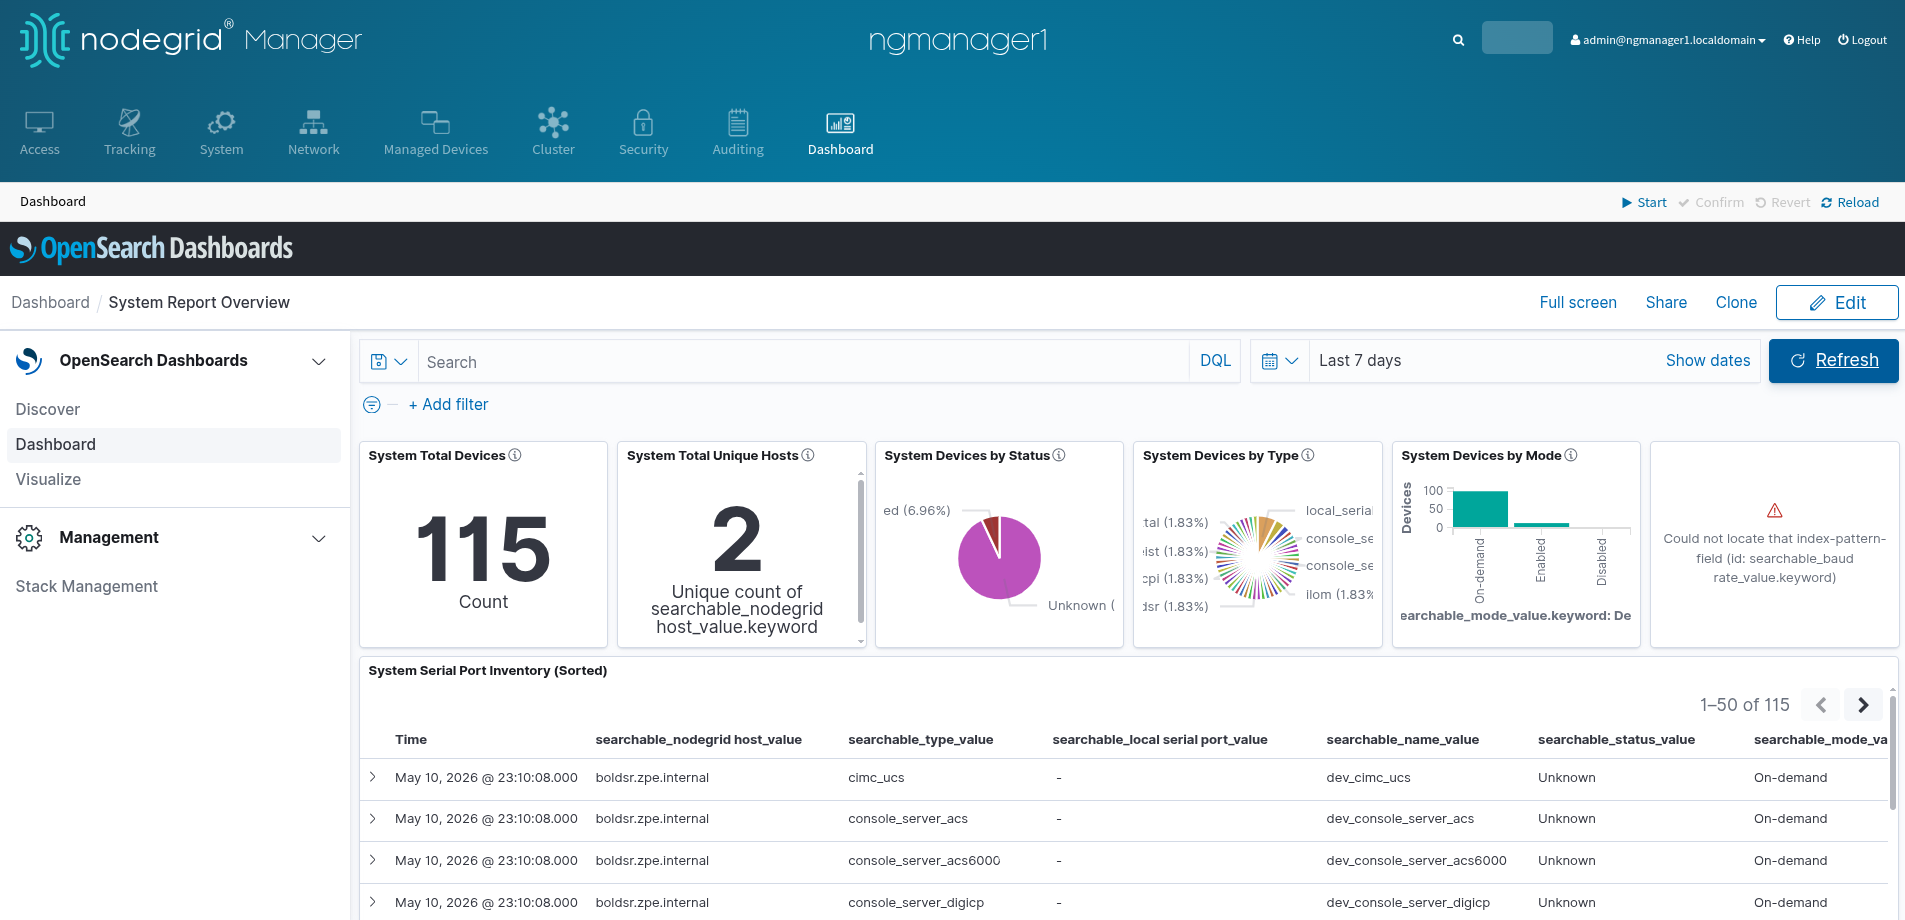
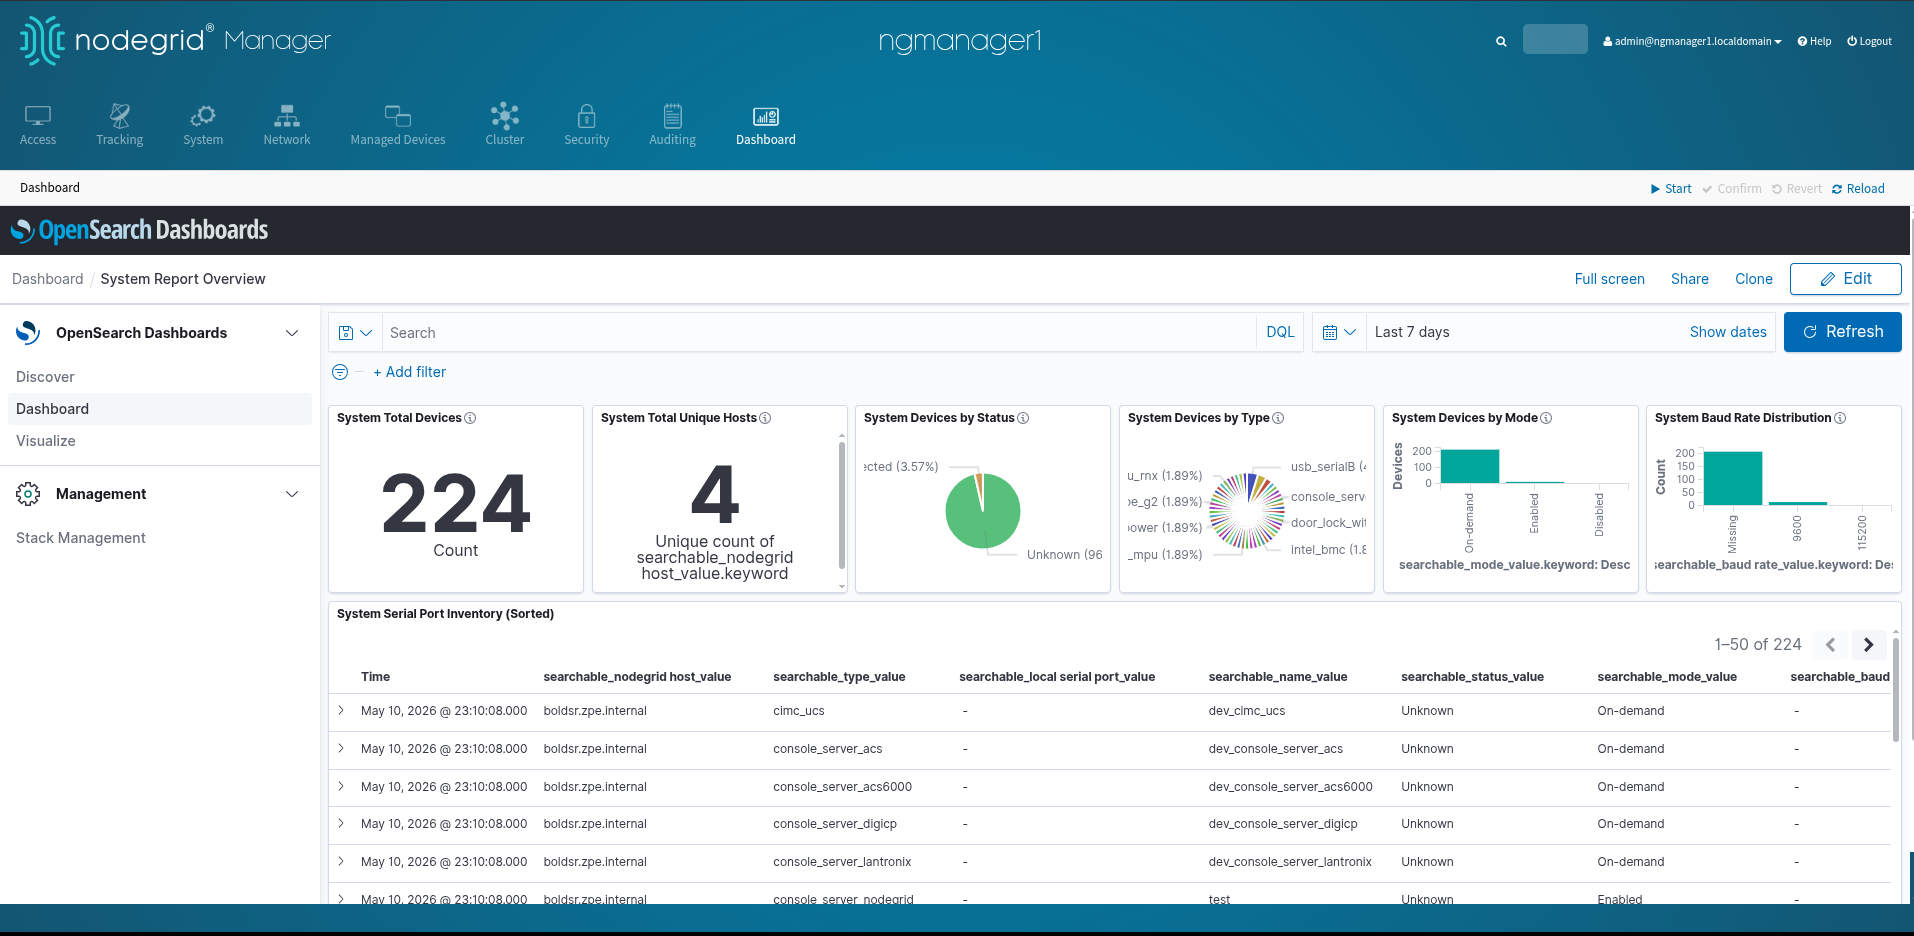
nodegrid_elasticsearch_inventory: - Automate the Kibana Dashboard import and include it in the 'nodegrid_elasticsearch_inventory' role. - Update Readme with an example description and diagram.

diff --git a/examples/playbooks/system-roles/Managed_Devices_report/README.md b/examples/playbooks/system-roles/Managed_Devices_report/README.md
@@ -10,35 +10,60 @@ This use case collects managed-devices inventory from local Nodegrid OpenSearch 
 - Client certificate/key files present on the reports host for report-policy validation tasks
 
 # Example 
-The following example considers two Nodegrid devices, each one manages multiple target devices. The device `ngmanager1` is defined with the `reports` role.
+The following example considers two Nodegrid devices, each one manages multiple target devices. The device `ngmanager1` is defined with the `reports` role in the Ansible inventory.
 
 ```mermaid
 ---
-title: Setup Overview
+title: Managed Devices Report example overview
 ---
-flowchart
- id1["ngmanager1 - Report role"]
- id2["managed Devices"]
- id3["boldsr"]
- id4["managed Devices"]
+graph TB
+  subgraph Rack3
+   direction TB
+   ng-gatesr["gatesr"]
+   subgraph mdgatesr["gatesr managed devices"]
+    direction TB
+     mdgatesr1["router-3-1"]
+     mdgatesr2["router-3-2"]
+     mdgatesr3["switch-3-1"]
+   end
+   ng-gatesr ---|ttyS1-1| mdgatesr1 
+   ng-gatesr ---|usbS0-1| mdgatesr2 
+   ng-gatesr ---|IP| mdgatesr3
+  end
 
- subgraph Nodegrid1
+  subgraph Rack2
+   direction TB
+   ng-boldsr["boldsr"]
+   subgraph mdboldsr["boldsr managed devices"]
+    direction TB
+     mdboldsr1["router-2-1"]
+     mdboldsr2["router-2-2"]
+     mdboldsr3["switch-2-1"]
+   end
+   ng-boldsr ---|ttyS1-1| mdboldsr1 
+   ng-boldsr ---|usbS0-1| mdboldsr2 
+   ng-boldsr ---|IP| mdboldsr3
+  end
+
+subgraph Control_Node["Ansible Control Node"]
  direction LR
- id1 --- id2
- end
+   ng-manager["ng-manager"]
+   subgraph mdmanager["ngmanager managed devices"]
+    direction TB
+     mdmanager1["router-1-1"]
+     mdmanager2["router-1-2"]
+     mdmanager3["switch-1-1"]
+   end
+   ng-manager ---|IP| mdmanager1 & mdmanager2 & mdmanager3
+end
   
- subgraph Nodegrid2
- direction LR
- id3 --- id4
- end
-
-id1 -.-|IPv4 Network| id3
+ng-manager -..-|IPv4/IPv6 \n SSH| ng-boldsr & ng-gatesr
 ```
 
 ## Inventory
 
-### `ngmanager1.yaml`
-Create the file `/etc/ansible/inventories/host_vars/ngmanager1.yaml` with the following content (adapt it accordingly): 
+### `ngmanager.yaml`
+Create the file `/etc/ansible/inventories/host_vars/ngmanager.yaml` with the following content (adapt it accordingly): 
 
 ```yaml
 ansible_host: 192.168.1.21
@@ -58,6 +83,17 @@ ansible_port: '22'
 ansible_user: ansible
 ansible_ssh_private_key_file: ~/.ssh/managed@zpesystems.com
 ```
+
+### `gatesr.yaml`
+Create the file `/etc/ansible/inventories/host_vars/gatesr.yaml` with the following content (adapt it accordingly): 
+
+```yaml
+ansible_host: 192.168.1.23
+ansible_port: '22'
+ansible_user: ansible
+ansible_ssh_private_key_file: ~/.ssh/managed@zpesystems.com
+```
+
 ### Hosts `md_report.yaml`
 Create the file `/etc/ansible/inventories/md_report.yaml` with the following content: 
 
@@ -66,6 +102,7 @@ md_report:
   hosts:
     ngmanager1:
     boldsr:
+    gatesr:
 ```
 
 Test the inventory:
@@ -75,10 +112,12 @@ ansible@ngmanager1:~$ ansible-inventory --graph md_report
 @md_report:
   |--ngmanager1
   |--boldsr
+  |--gatesr
 
 ```
 
-## Playbook
+## Managed Devices Report Playbook
+Create the file `/etc/ansible/playbooks/md_report.yaml` with the following content:
 
 ```yaml
 - name: Build the central Nodegrid device report
@@ -98,16 +137,157 @@ To execute the playbook:
 ```bash
 ansible-playbook md_report.yaml --limit md_report
 ```
+<details>
+    <summary> Playbook execution output example </summary>
 
-## Dashboard Import
+```
+ansible@ngmanager1:/etc/ansible/playbooks/Managed_Devices_report$ ansible-playbook report.yaml --limit ngmanager1
+
+PLAY [Build the central Nodegrid device report] *******************************************************************************
+
+TASK [Nodegrid elastic search inventory] **************************************************************************************
+included: nodegrid_elasticsearch_inventory for ngmanager1
+
+TASK [zpe.nodegrid.nodegrid_elasticsearch_inventory : Include variable definitions] *******************************************
+ok: [ngmanager1]
+
+TASK [zpe.nodegrid.nodegrid_elasticsearch_inventory : Build list of central report host candidates] ***************************
+skipping: [ngmanager1] => (item=dev_cimc_ucs)
+skipping: [ngmanager1] => (item=dev_console_server_acs)
+skipping: [ngmanager1] => (item=dev_console_server_acs6000)
+ok: [ngmanager1 -> localhost(127.0.0.1)] => (item=ngmanager1)
+
+TASK [zpe.nodegrid.nodegrid_elasticsearch_inventory : Ensure exactly one reports host is defined] *****************************
+ok: [ngmanager1 -> localhost(127.0.0.1)] => {
+    "changed": false,
+    "msg": "Using central reports host: ngmanager1"
+}
+
+TASK [zpe.nodegrid.nodegrid_elasticsearch_inventory : Set central reports host fact for this execution host] ******************
+ok: [ngmanager1]
+
+TASK [zpe.nodegrid.nodegrid_elasticsearch_inventory : Collect Nodegrid facts] *************************************************
+ok: [ngmanager1]
+
+TASK [zpe.nodegrid.nodegrid_elasticsearch_inventory : Set Nodegrid version and model facts] ***********************************
+ok: [ngmanager1]
+
+TASK [zpe.nodegrid.nodegrid_elasticsearch_inventory : Audit - Inventory collection started] ***********************************
+included: /etc/ansible/collections/ansible_collections/zpe/nodegrid/roles/nodegrid_elasticsearch_inventory/tasks/audit.yml for ngmanager1
+
+TASK [zpe.nodegrid.nodegrid_elasticsearch_inventory : Set audit log directory] ************************************************
+ok: [ngmanager1]
+
+TASK [zpe.nodegrid.nodegrid_elasticsearch_inventory : Create primary audit log directory] *************************************
+ok: [ngmanager1]
+
+TASK [zpe.nodegrid.nodegrid_elasticsearch_inventory : Build audit timestamp] **************************************************
+ok: [ngmanager1]
+
+TASK [zpe.nodegrid.nodegrid_elasticsearch_inventory : Create audit entry] *****************************************************
+ok: [ngmanager1]
+
+TASK [zpe.nodegrid.nodegrid_elasticsearch_inventory : Write audit log] ********************************************************
+changed: [ngmanager1]
+
+TASK [zpe.nodegrid.nodegrid_elasticsearch_inventory : Collect inventory from Elasticsearch] ***********************************
+ok: [ngmanager1]
+
+TASK [zpe.nodegrid.nodegrid_elasticsearch_inventory : Audit - Inventory collection completed] *********************************
+included: /etc/ansible/collections/ansible_collections/zpe/nodegrid/roles/nodegrid_elasticsearch_inventory/tasks/audit.yml for ngmanager1
+
+TASK [zpe.nodegrid.nodegrid_elasticsearch_inventory : Set audit log directory] ************************************************
+ok: [ngmanager1]
+
+TASK [zpe.nodegrid.nodegrid_elasticsearch_inventory : Create primary audit log directory] *************************************
+ok: [ngmanager1]
+
+TASK [zpe.nodegrid.nodegrid_elasticsearch_inventory : Build audit timestamp] **************************************************
+ok: [ngmanager1]
+
+TASK [zpe.nodegrid.nodegrid_elasticsearch_inventory : Create audit entry] *****************************************************
+ok: [ngmanager1]
+
+TASK [zpe.nodegrid.nodegrid_elasticsearch_inventory : Write audit log] ********************************************************
+changed: [ngmanager1]
+
+TASK [zpe.nodegrid.nodegrid_elasticsearch_inventory : Audit - Report load started] ********************************************
+included: /etc/ansible/collections/ansible_collections/zpe/nodegrid/roles/nodegrid_elasticsearch_inventory/tasks/audit.yml for ngmanager1
+
+TASK [zpe.nodegrid.nodegrid_elasticsearch_inventory : Set audit log directory] ************************************************
+ok: [ngmanager1]
+
+TASK [zpe.nodegrid.nodegrid_elasticsearch_inventory : Create primary audit log directory] *************************************
+ok: [ngmanager1]
+
+TASK [zpe.nodegrid.nodegrid_elasticsearch_inventory : Build audit timestamp] **************************************************
+ok: [ngmanager1]
+
+TASK [zpe.nodegrid.nodegrid_elasticsearch_inventory : Create audit entry] *****************************************************
+ok: [ngmanager1]
+
+TASK [zpe.nodegrid.nodegrid_elasticsearch_inventory : Write audit log] ********************************************************
+changed: [ngmanager1]
+
+TASK [zpe.nodegrid.nodegrid_elasticsearch_inventory : Load inventory rows to central report index host] ***********************
+changed: [ngmanager1]
+
+TASK [zpe.nodegrid.nodegrid_elasticsearch_inventory : Audit - Report load completed] ******************************************
+included: /etc/ansible/collections/ansible_collections/zpe/nodegrid/roles/nodegrid_elasticsearch_inventory/tasks/audit.yml for ngmanager1
+
+TASK [zpe.nodegrid.nodegrid_elasticsearch_inventory : Set audit log directory] ************************************************
+ok: [ngmanager1]
+
+TASK [zpe.nodegrid.nodegrid_elasticsearch_inventory : Create primary audit log directory] *************************************
+ok: [ngmanager1]
+
+TASK [zpe.nodegrid.nodegrid_elasticsearch_inventory : Build audit timestamp] **************************************************
+ok: [ngmanager1]
+
+TASK [zpe.nodegrid.nodegrid_elasticsearch_inventory : Create audit entry] *****************************************************
+ok: [ngmanager1]
+
+TASK [zpe.nodegrid.nodegrid_elasticsearch_inventory : Write audit log] ********************************************************
+changed: [ngmanager1]
+
+TASK [zpe.nodegrid.nodegrid_elasticsearch_inventory : Validate report ISM policy exists on reports host] **********************
+ok: [ngmanager1]
+
+TASK [zpe.nodegrid.nodegrid_elasticsearch_inventory : Validate report index has expected ISM policy attached] *****************
+ok: [ngmanager1]
+
+TASK [zpe.nodegrid.nodegrid_elasticsearch_inventory : Assert report policy attachment state] **********************************
+ok: [ngmanager1] => {
+    "changed": false,
+    "msg": "Report index spconfig_system_report is attached to policy system_report_keep_forever."
+}
+
+TASK [zpe.nodegrid.nodegrid_elasticsearch_inventory : Aggregate final facts] **************************************************
+ok: [ngmanager1]
+
+TASK [zpe.nodegrid.nodegrid_elasticsearch_inventory : Return results] *********************************************************
+ok: [ngmanager1] => {
+    "msg": "Inventory collection completed"
+}
+
+TASK [zpe.nodegrid.nodegrid_elasticsearch_inventory : Import Dashboard] *******************************************************
+ok: [ngmanager1]
+
+PLAY RECAP ********************************************************************************************************************
+ngmanager1                 : ok=39   changed=5    unreachable=0    failed=0    skipped=0    rescued=0    ignored=0
+```
+</details>
+
+## Access the Dashboard
+
 Access the Web UI of the `ngmanager1` device and execute the following:
 
-1. Dashboard -> Stack Management -> Saved Objects -> Import
-2. Select `files/nodegrid_device_report_kibana.ndjson`
-3. Overwrite on conflicts if needed
-4. Refresh the data view fields after the report index has been loaded so all report fields are available
+- Dashboard -> Dashboard -> System Report Overview
 
 ![](images/dashboard.png)
+
+
+
 
 ---
 # `nodegrid_elasticsearch_inventory` Role Variables
@@ -197,6 +377,16 @@ The role exports a `nodegrid_elasticsearch_inventory` fact with:
 - protection state: `index_template_changed`, `policy_created`, `policy_attachment_changed`, `policy_expected`, `policy_attached`
 - timestamp-field names used by the run
 
+---
+## Manual Dashboard Import
+Access the Web UI of the `ngmanager1` device and execute the following:
+
+1. Dashboard -> Stack Management -> Saved Objects -> Import
+2. Select `files/nodegrid_device_report_kibana.ndjson`
+3. Overwrite on conflicts if needed
+4. Refresh the data view fields after the report index has been loaded so all report fields are available
+
+![](images/dashboard.png)
 
 ## License
 
